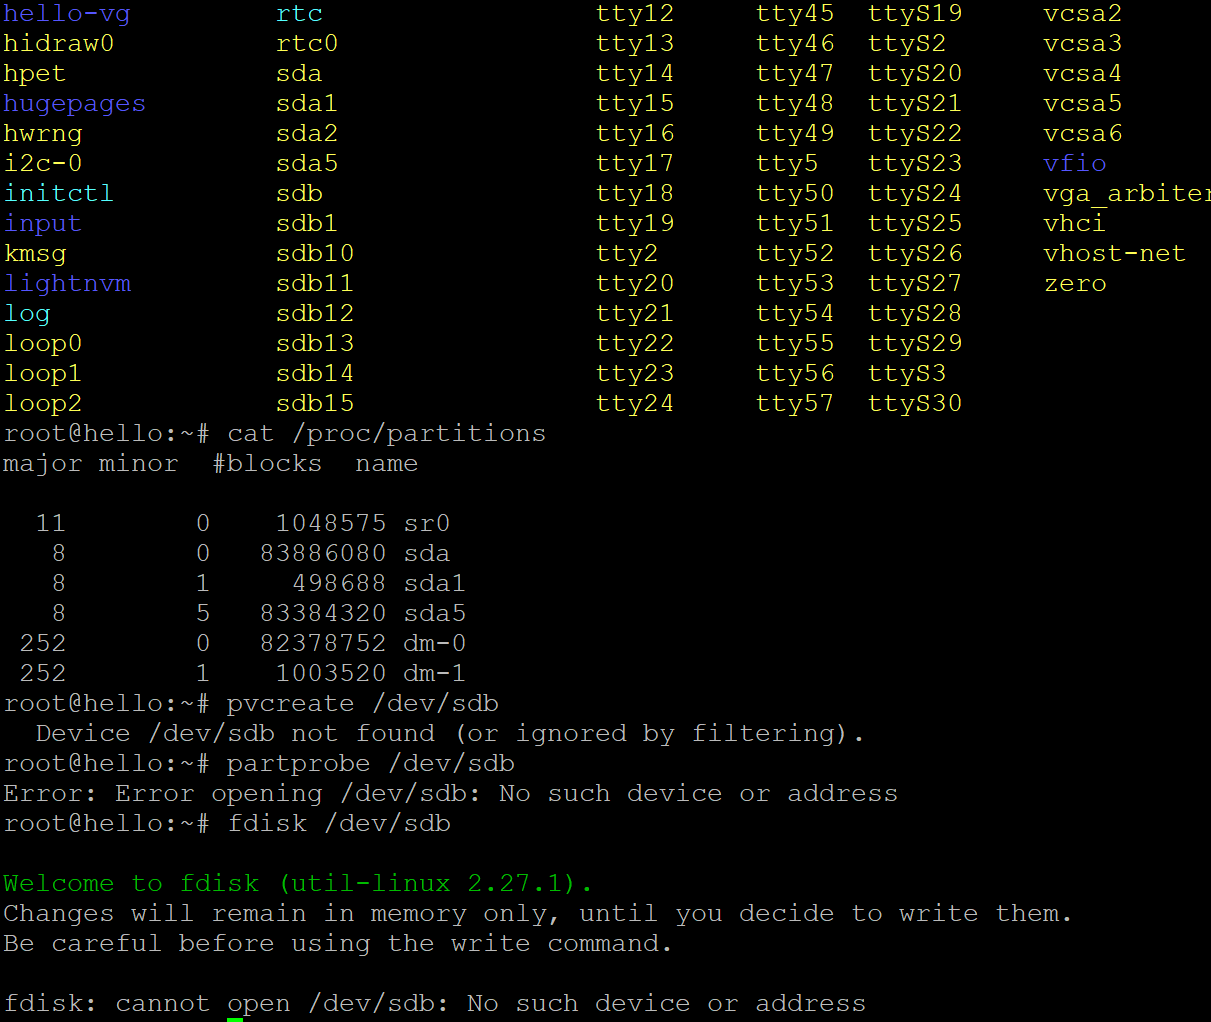
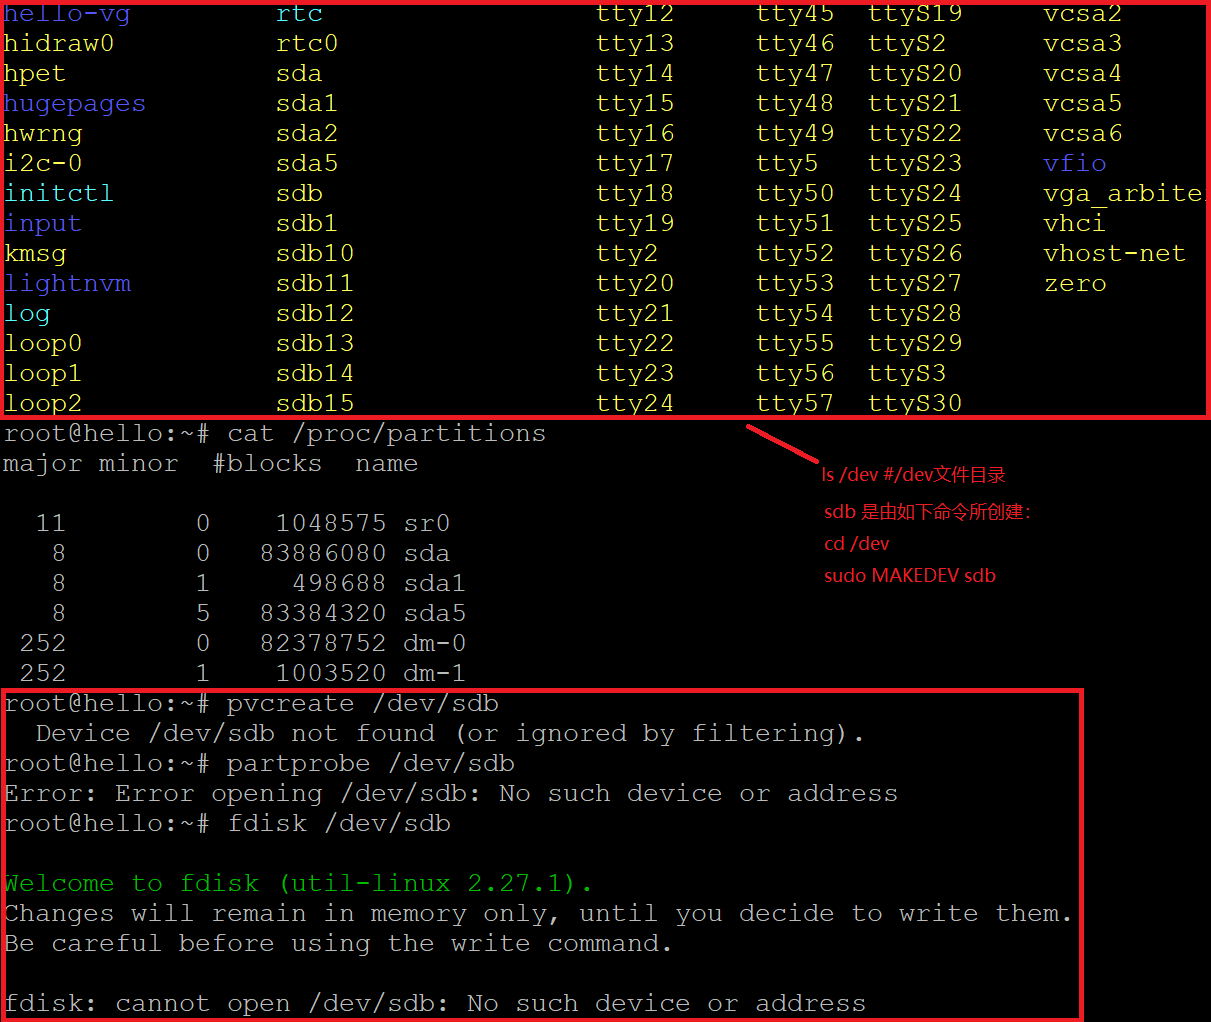
更正一处图片路径

Changed region(s): [[0.0, 0.0, 1.0, 0.455], [0.0, 0.6673, 0.9166, 1.0], [0.6722, 0.455, 0.8555, 0.5763]]

diff --git a/实验三：systemd/README.md b/实验三：systemd/README.md
@@ -96,7 +96,7 @@ systemctl status nginx.service
 
   - 参考[[LVM] pvcreate - ignored by filtering](https://www.linuxquestions.org/questions/linux-newbie-8/%5Blvm%5D-pvcreate-ignored-by-filtering-4175559389/)和[/dev/sdb: No such file or directory (but /dev/sdb1 etc. exists)](https://unix.stackexchange.com/questions/56516/dev-sdb-no-such-file-or-directory-but-dev-sdb1-etc-exists)都没解决报错
 
-![](images/12.PNG)
+![](images/13.PNG)
 
 ## 参考资料
 [linux下添加用户并赋予root权限](https://blog.csdn.net/stormbjm/article/details/9086163)
